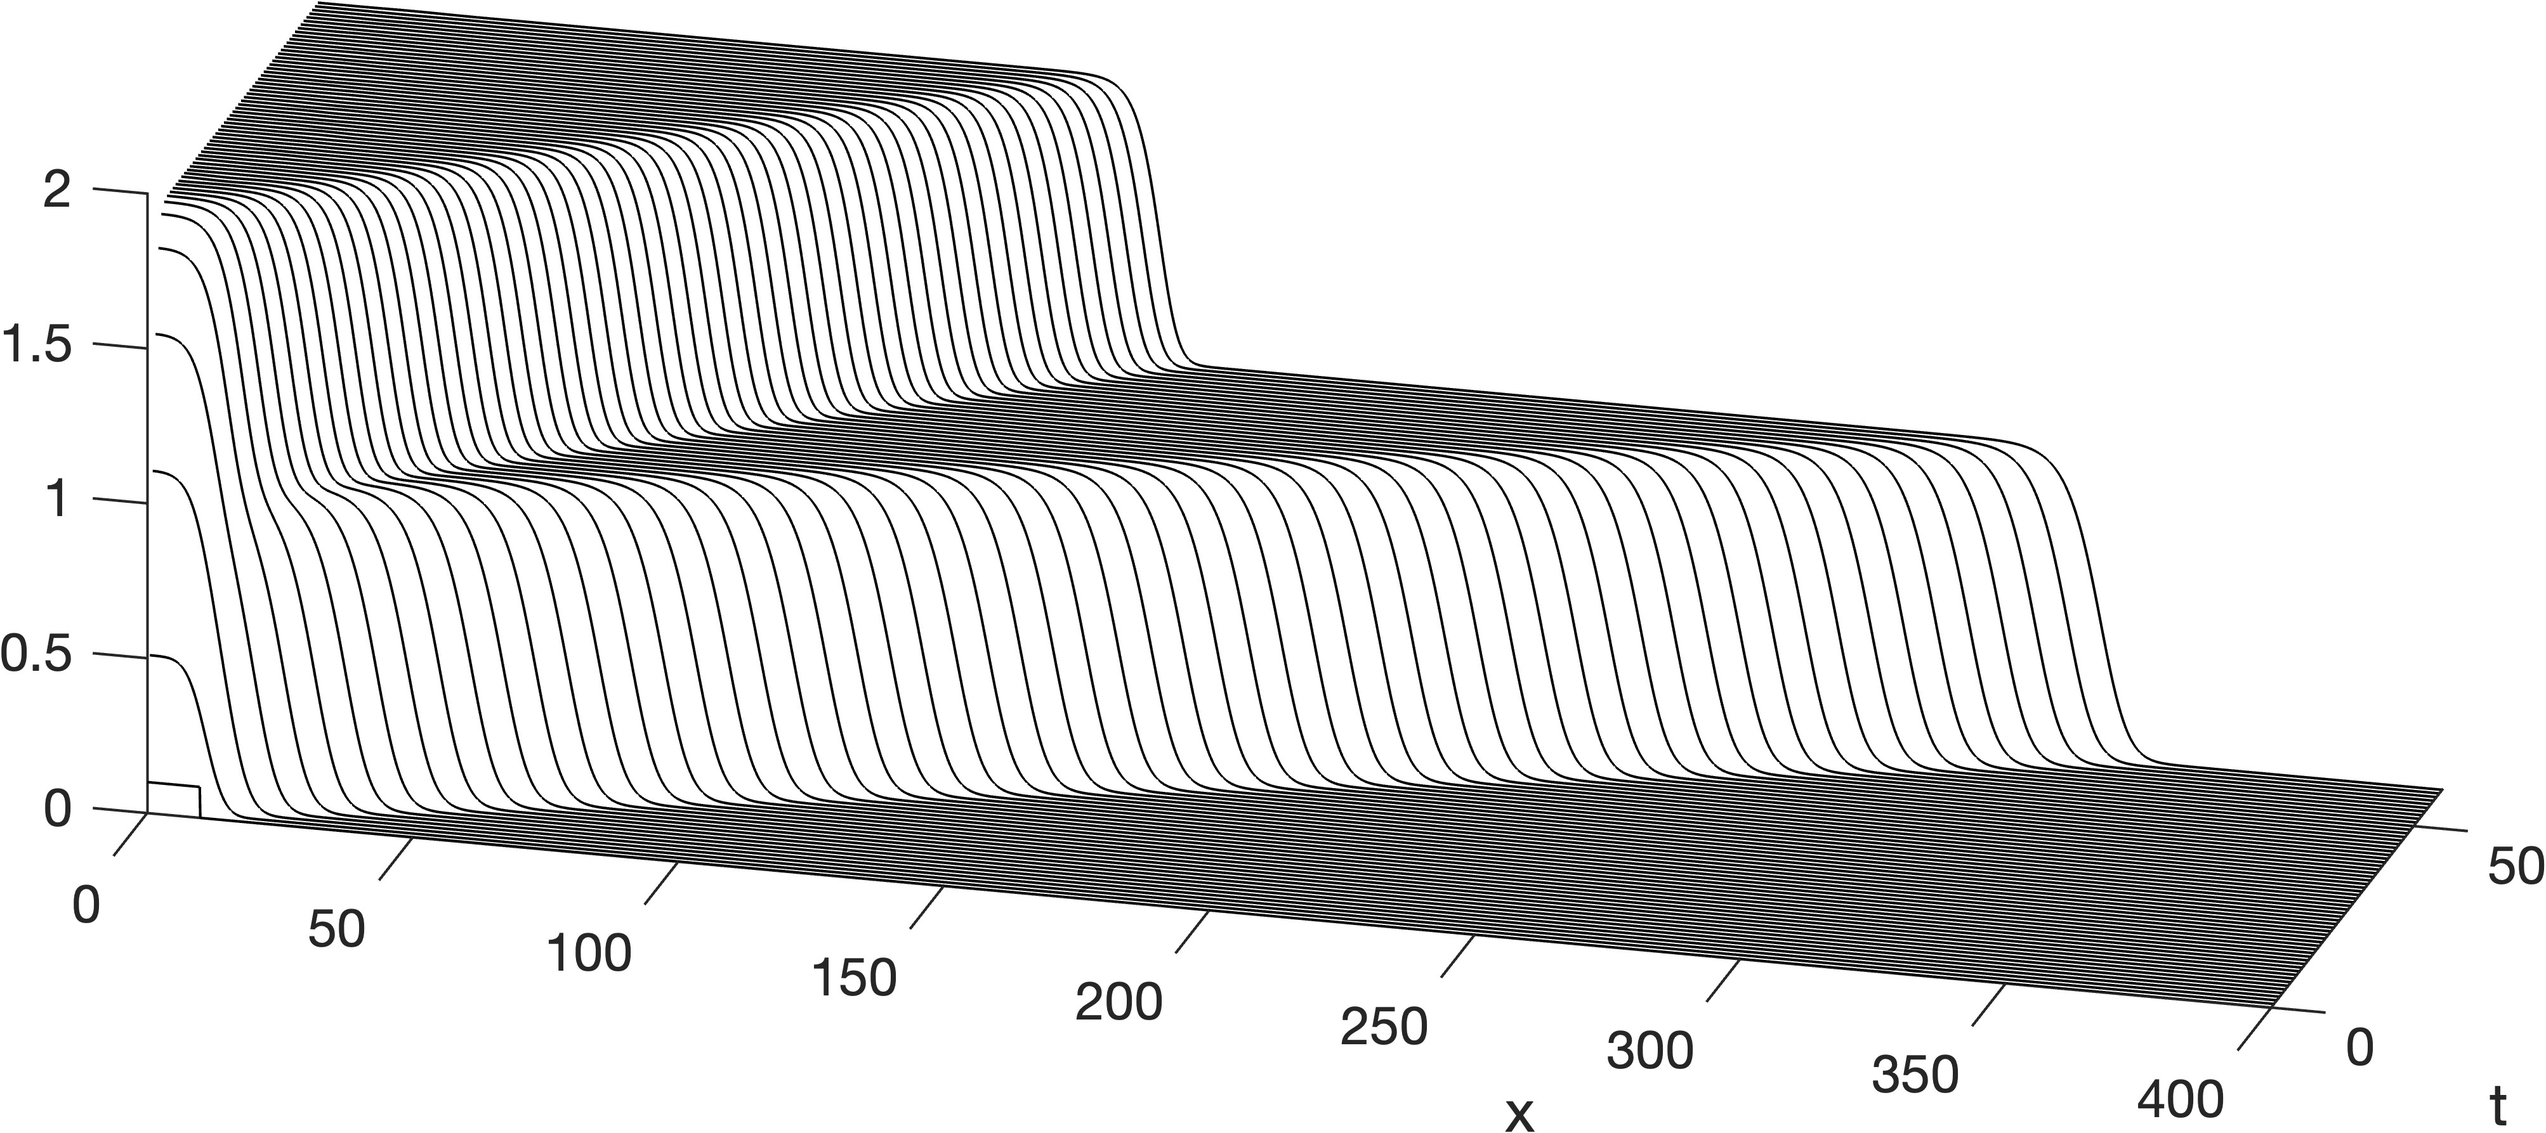
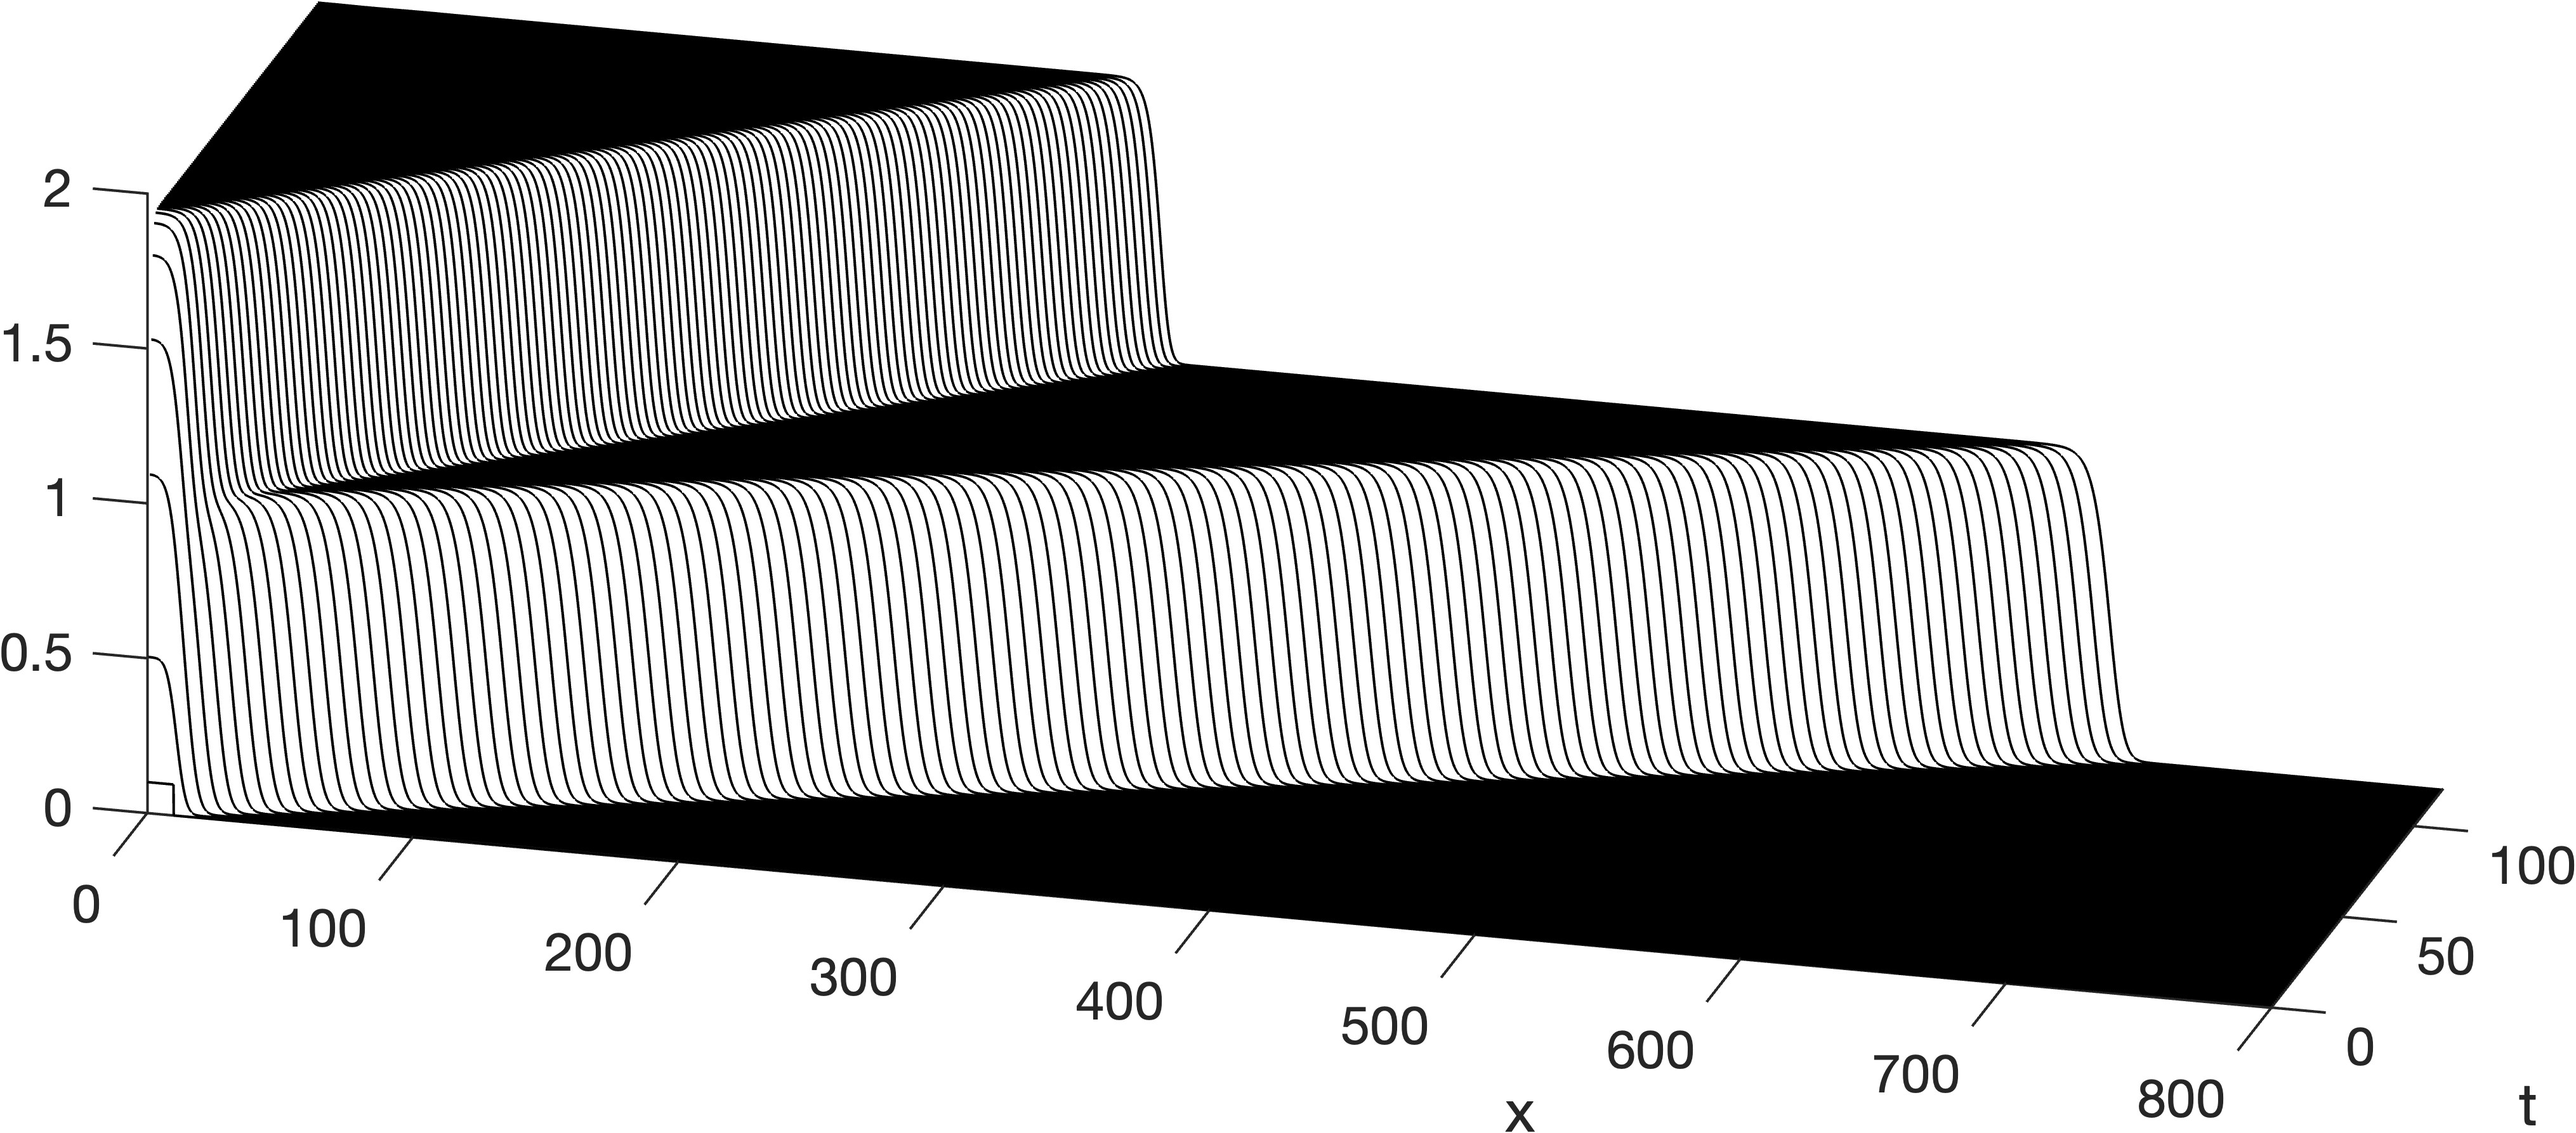
some changes

diff --git a/SimCascadeFront_instability_single_front.m b/SimCascadeFront_instability_single_front.m
@@ -4,20 +4,19 @@
 % effects can be neglected.
 % The solution is numerically calculated using pdepe.
 
+clear all;
+clc;
+close all;
+
 genVideo = 0;
 
 
 m = 0;
-xmin = -800;
-xmax = 800;
-tend = 120;
+xmin = -200;
+xmax = 200;
+tend = 20;
 x = xmin:0.1:xmax;
 t = 0:0.1:tend;
-
-d = 4;
-r = 2;
-a1 = 0.75;
-a2 = 0.75;
 
 tic;
 sol = pdepe(m,@pdex4pde,@pdex4ic,@pdex4bc,x,t);
@@ -25,31 +24,10 @@ runTime = toc;
 disp(['Run time: ',num2str(runTime)]);
 u1 = sol(:,:,1);
 u2 = sol(:,:,2);
-%% calculate and find optimal weights in assumption 3
+%% calculate and plot front speeds
 
 [c1,c2,f1init,f2init,t0] = frontSpeed(u1,u2,t,x);
 
-disp(['Speed of leading front: c_1 = ',num2str(c1)]);
-disp(['Speed of secondary front: c_2 = ',num2str(c2)]);
-
-% define function handle
-kappa = linspace(0,10,1000);
-hold on
-plot(kappa,kappa.^2-c2*kappa+(1+a2))
-plot(kappa,d*kappa.^2-c2*kappa-r)
-ylim([-5,1]);
-hold off
-
-pause()
-
-plot(kappa,d*kappa.^2-c1*kappa+r)
-ylim([-5,1]);
-
-pause()
-
-[kappa1,kappa2] = meshgrid(linspace(0,2,200),linspace(0,2,200));
-surf(kappa1,kappa2,d*kappa1.^2-c1*kappa1+r+kappa2*(c1-c2));
-view(2);
 
 %% 
 if genVideo
@@ -99,10 +77,10 @@ plot(x(xidx:end),(x(xidx:end)-f1init)/c1 + t0,'Color','red','LineWidth',2)
 xidx = find(x>f2init,1);
 plot(x(xidx:end),(x(xidx:end)-f2init)/c2+ t0,'Color','green','LineWidth',2)
 hold off
-exportgraphics(gca,'front-cascade-compact-init-top-view.jpg','Resolution',600)
+exportgraphics(gca,'front-cascade-unstable-init-front-top-view.jpg','Resolution',600)
 
 %% plot solution in space-time plot with side view
- 
+
 figure(3);
 hold on;
 for ii = 1:10:numel(t)
@@ -113,7 +91,7 @@ view(15,20)
 xlabel("x")
 ylabel("t")
 pbaspect([100/30 1 1])
-exportgraphics(gca,'front-cascade-compact-init-side-view.jpg','Resolution',600)
+exportgraphics(gca,'front-cascade-unstable-init-front-side-view.jpg','Resolution',600)
 
 
 %% --------------------------------------------------------------------------
@@ -138,9 +116,7 @@ end
 
 function u0 = pdex4ic(x) % sets initial profile
  
-% eps = 1e-2;
-% u0 = eps*(x<5)*(x>-5)*[0;1]+(x<40)*(x>-40)*[1;0];
-u0 = 0.1*(x<10)*(x>-10)*[1;1];
+u0 = (x<50)*(x>-50)*[1;0] + 0.001*(x<10)*(x>-10)*[0;1];
 
 end
 % --------------------------------------------------------------------------
